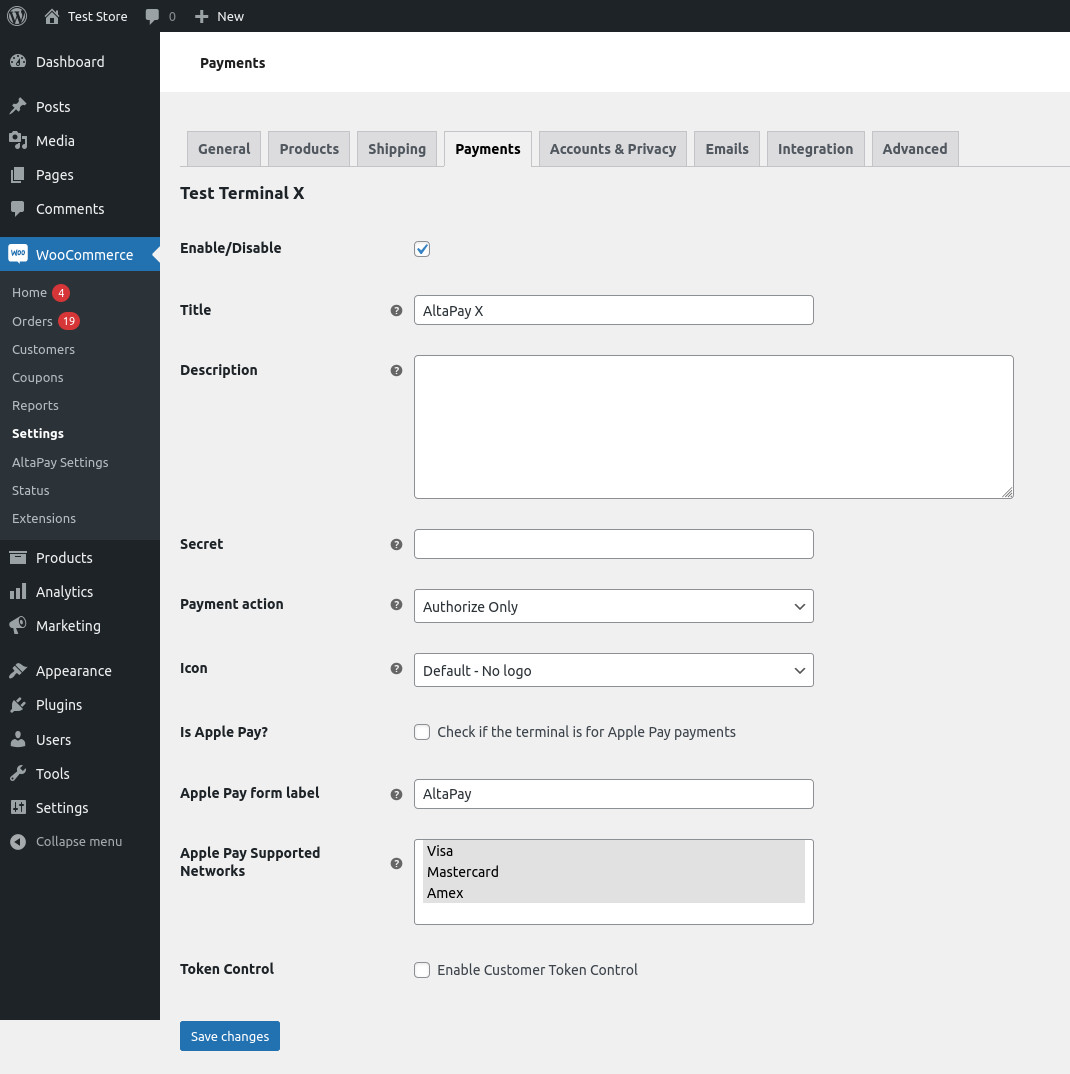
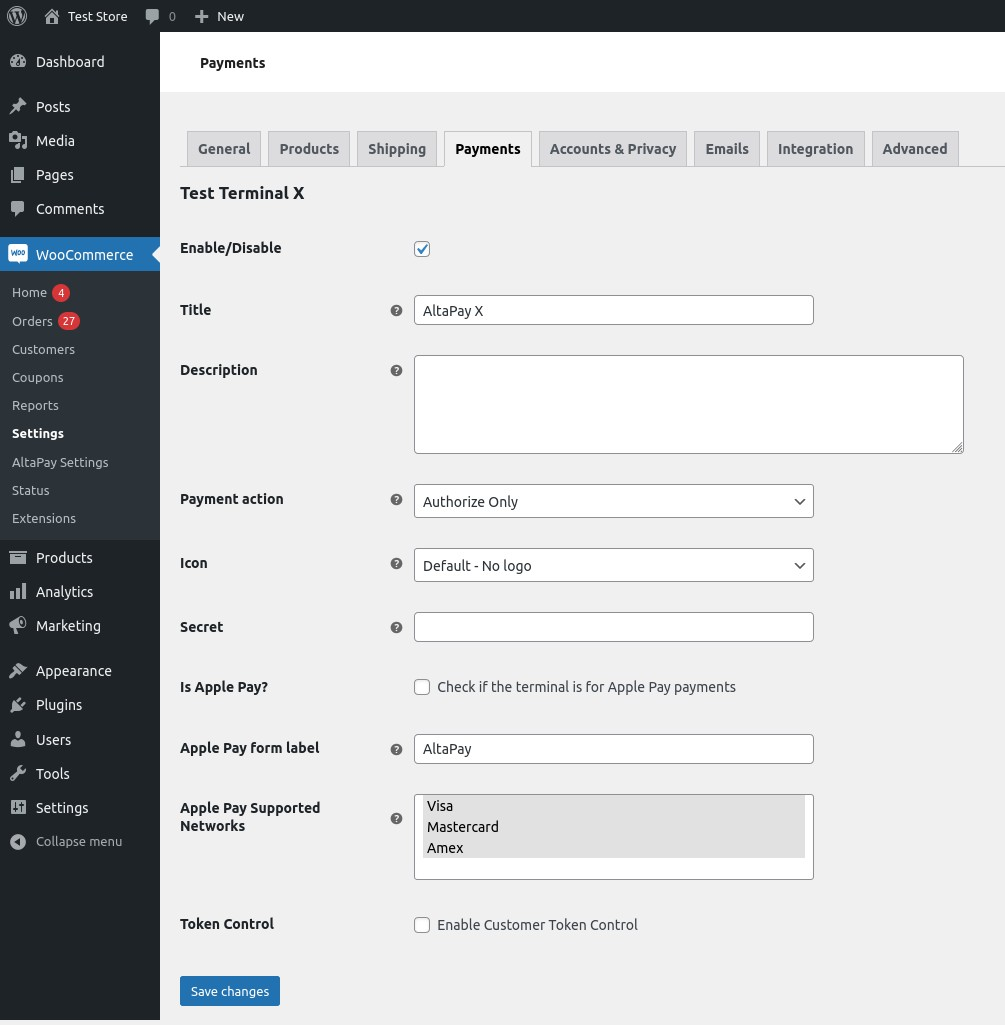
update documentation image

diff --git a/altapay.php b/altapay.php
@@ -883,6 +883,9 @@ function altapayPluginActivation() {
 	Core\AltapayPluginInstall::createPluginTables();
 }
 
+/**
+ * Halt the AltaPay callback form request if checksum not valid
+ */
 function validate_checksum_altapay_callback_form() {
 
 	if ( is_page( get_option( 'altapay_payment_page' ) ) ) {

diff --git a/wiki.md b/wiki.md
@@ -139,20 +139,20 @@ For the AltaPay payment method to appear in the checkout page:
 
     ![altapay_terminal_woocommerce_checkout_page_settings](docs/altapay_terminal_woocommerce_checkout_page_settings.jpg)
 
-- Complete the details, using the notes below for guidance.
+  - Complete the details, using the notes below for guidance.
 
-    | Field                        | Description                                                                                                                                           |
-    |------------------------------|-------------------------------------------------------------------------------------------------------------------------------------------------------|
-    | Enable/Disable               | Enable or Disable the payment terminal.                                                                                                               |
-    | Title                        | This field will appear in the checkout page as the title of the payment terminal.                                                                     |
-    | Description                  | This field must contain the message that will appear for the customer in the checkout page and describes the payment terminal.                        |
-    | Secret                       | Add the payment method secret as defined in the AltaPay payment gateway to enable checksum validation. To disable checksum validation leave it empty. |
-    | Payment action               | Make payment authorized or authorized and captured.                                                                                                   |
-    | Icon                         | Select image icon to display on checkout page.                                                                                                        |
-    | Is Apple Pay?                | Check if the terminal is for Apple Pay payments.                                                                                                      |
-    | Apple Pay form label         | This controls the label shown on Apple Pay popup window.                                                                                              |
-    | Apple Pay Supported Networks | The payment networks the merchant supports.                                                                                                           |
-    | Token Control                | Enable Customer Token Control.                                                                                                                        |
+      | Field                        | Description                                                                                                                                           |
+      |------------------------------|-------------------------------------------------------------------------------------------------------------------------------------------------------|
+      | Enable/Disable               | Enable or Disable the payment terminal.                                                                                                               |
+      | Title                        | This field will appear in the checkout page as the title of the payment terminal.                                                                     |
+      | Description                  | This field must contain the message that will appear for the customer in the checkout page and describes the payment terminal.                        |
+      | Payment action               | Make payment authorized or authorized and captured.                                                                                                   |
+      | Icon                         | Select image icon to display on checkout page.                                                                                                        |
+      | Secret                       | Add the payment method secret as defined in the AltaPay payment gateway to enable checksum validation. To disable checksum validation leave it empty. |
+      | Is Apple Pay?                | Check if the terminal is for Apple Pay payments.                                                                                                      |
+      | Apple Pay form label         | This controls the label shown on Apple Pay popup window.                                                                                              |
+      | Apple Pay Supported Networks | The payment networks the merchant supports.                                                                                                           |
+      | Token Control                | Enable Customer Token Control.                                                                                                                        |
 - Save the changes.
 
 ### Customize the checkout page
